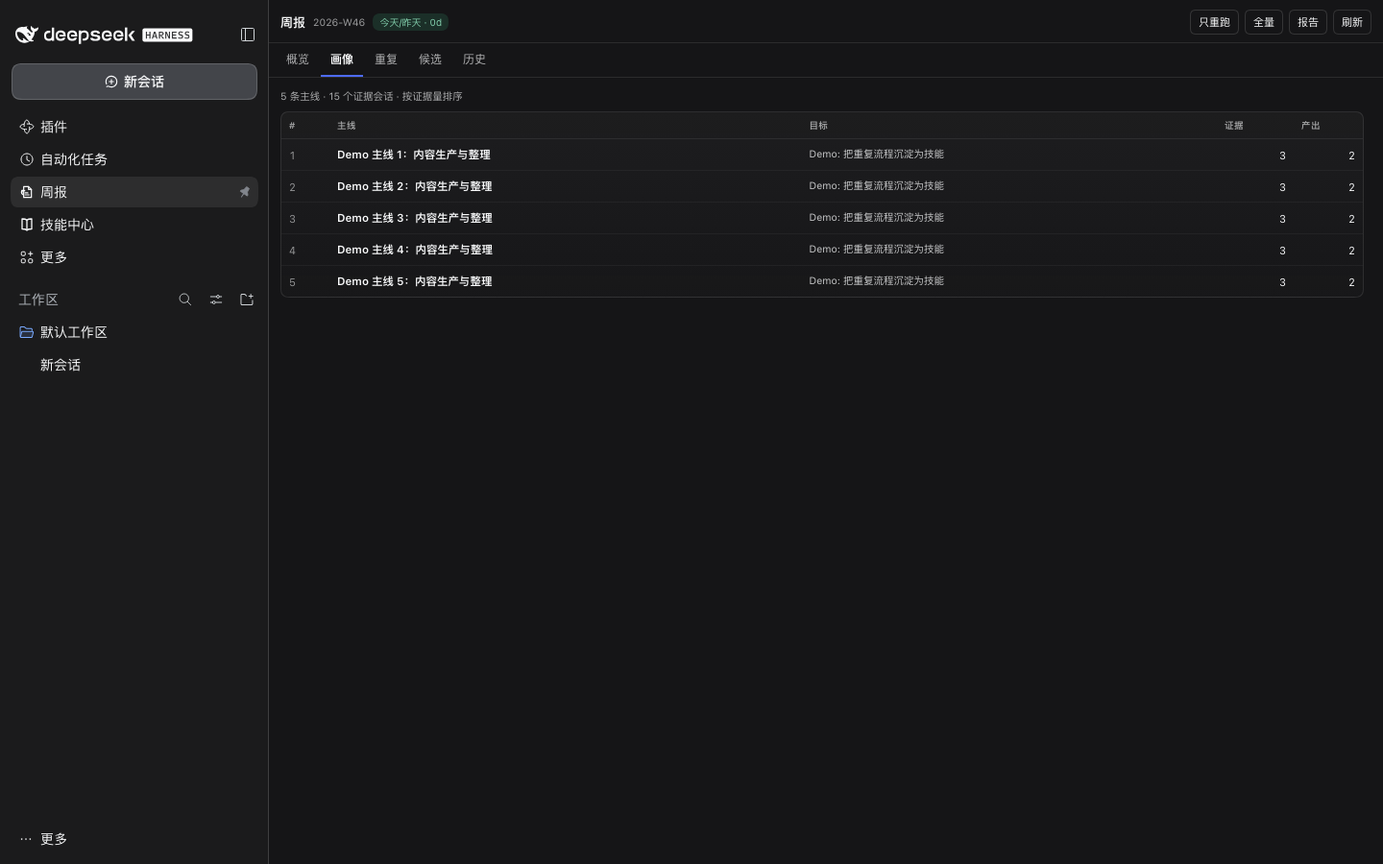
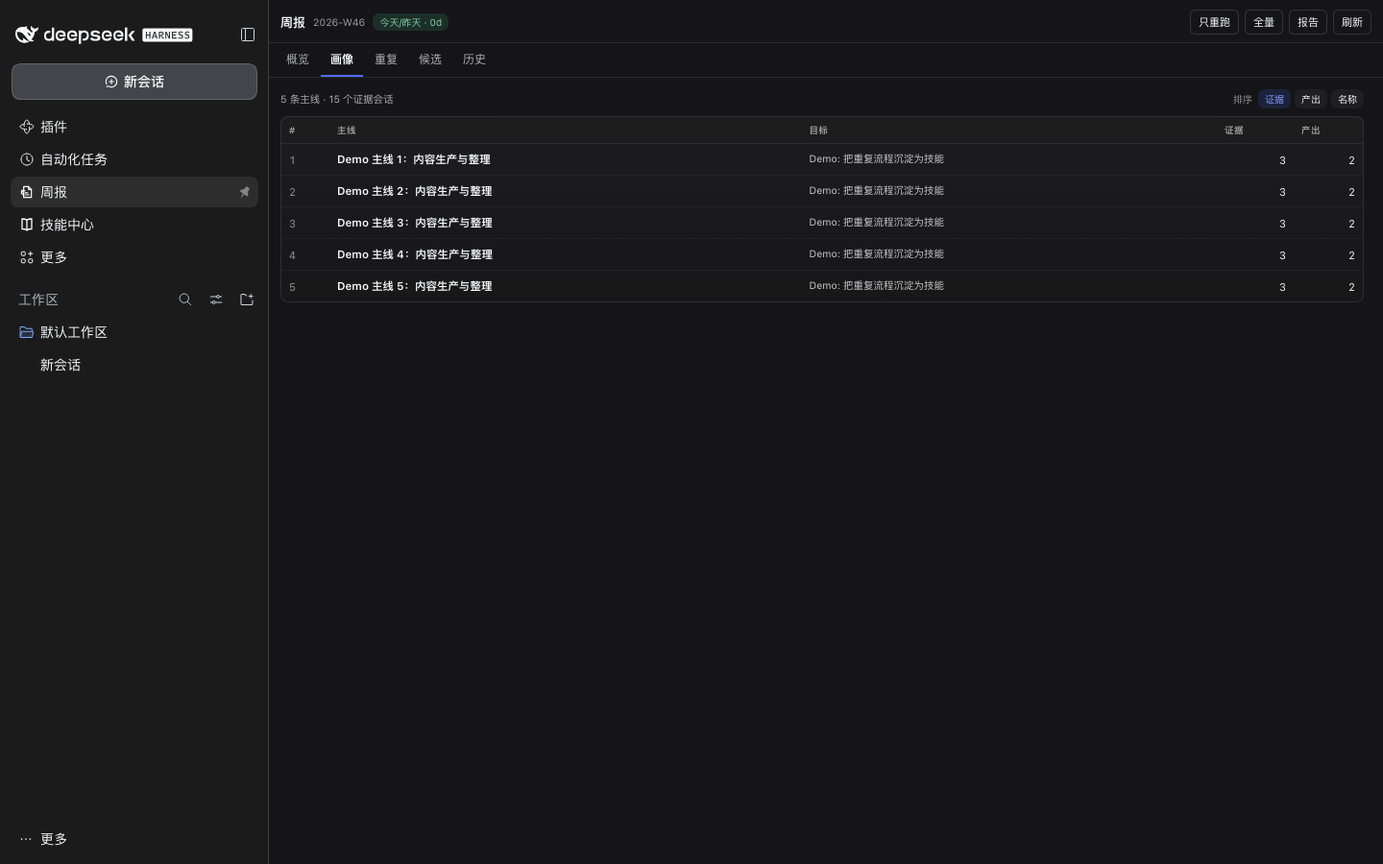
ui: B2 sorting, drilldown drawers, repeat fix brief, candidate actions, history delta; v0.4.5

diff --git a/lib/client.js b/lib/client.js
@@ -50,6 +50,21 @@ window.__ModuleLoader__.load({
       watcher: T('监听', 'Watcher'), skip: T('跳过', 'Skip'),
     }[v] || v);
 
+    const copyToClipboard = (text, onDone, onFail) => {
+      const fallback = () => {
+        try {
+          const ta = document.createElement('textarea');
+          ta.value = text; ta.setAttribute('readonly', ''); ta.style.position = 'fixed'; ta.style.opacity = '0';
+          document.body.appendChild(ta); ta.select();
+          const ok = document.execCommand && document.execCommand('copy');
+          document.body.removeChild(ta);
+          if (ok) onDone && onDone(); else onFail && onFail();
+        } catch { onFail && onFail(); }
+      };
+      if (navigator.clipboard?.writeText) navigator.clipboard.writeText(text).then(() => onDone && onDone()).catch(fallback);
+      else fallback();
+    };
+
     // ── P3 语义色 token（8 色，取自 dsh-context 色板）────────────────────
     // 60-30-10：60% 中性层（面板/卡片/边框 = rgba(127,127,127,*) 与透明渐变，跟随宿主深浅色）；
     // 30% 主蓝（标题/激活 Tab/主按钮/主序列）；10% 强调（紫/青/橙/粉/绿/红/黄只做序列色与状态点）。
@@ -169,6 +184,10 @@ window.__ModuleLoader__.load({
       barFill: (pct, color) => ({ height: '100%', width: `${Math.max(1, Math.min(100, pct))}%`, background: color || BLUE, borderRadius: 4 }),
       modalWrap: { position: 'fixed', inset: 0, background: 'rgba(0,0,0,.45)', display: 'flex', alignItems: 'center', justifyContent: 'center', zIndex: 9999 },
       modal: { width: 340, maxWidth: '90vw', background: 'Canvas', color: 'CanvasText', border: '1px solid rgba(127,127,127,.35)', borderRadius: 12, padding: 16, display: 'flex', flexDirection: 'column', gap: 10 },
+      drawerWrap: { position: 'fixed', inset: 0, zIndex: 9998, background: 'rgba(0,0,0,.38)', display: 'flex', justifyContent: 'flex-end' },
+      drawer: { width: 430, maxWidth: '94vw', height: '100%', background: 'Canvas', color: 'CanvasText', borderLeft: '1px solid rgba(127,127,127,.3)', boxShadow: '-18px 0 48px rgba(0,0,0,.24)', display: 'flex', flexDirection: 'column' },
+      drawerHead: { display: 'flex', alignItems: 'flex-start', gap: 8, padding: '12px 14px', borderBottom: '1px solid rgba(127,127,127,.2)' },
+      drawerBody: { padding: 14, overflowY: 'auto', display: 'flex', flexDirection: 'column', gap: 10, flex: 1, minHeight: 0 },
     };
 
     // ── 数据 hook ─────────────────────────────────────────────
@@ -478,6 +497,33 @@ window.__ModuleLoader__.load({
             h('button', { style: S.btn(danger ? 'danger' : 'primary'), onClick: onOk, disabled: busy, title: HELP.confirm() }, busy ? T('处理中…', 'Working…') : (okText || T('确认', 'Confirm'))))));
     }
 
+    function Drawer({ open, title, subtitle, onClose, children }) {
+      React.useEffect(() => {
+        if (!open) return undefined;
+        const onKey = (e) => { if (e.key === 'Escape') onClose(); };
+        window.addEventListener('keydown', onKey);
+        return () => window.removeEventListener('keydown', onKey);
+      }, [open, onClose]);
+      if (!open) return null;
+      return h('div', { style: S.drawerWrap, onClick: onClose },
+        h('div', { role: 'dialog', 'aria-modal': 'true', 'aria-label': title, style: S.drawer, onClick: (e) => e.stopPropagation() },
+          h('div', { style: S.drawerHead },
+            h('div', { style: { flex: 1, minWidth: 0 } },
+              h('div', { style: { fontWeight: 700, fontSize: 13, lineHeight: 1.4 } }, title),
+              subtitle ? h('div', { style: { fontSize: 10.5, opacity: 0.65, marginTop: 2 } }, subtitle) : null),
+            h('button', { style: { ...S.iconBtn, marginLeft: 0 }, onClick: onClose, 'aria-label': T('关闭', 'Close') }, '×')),
+          h('div', { style: S.drawerBody }, children)));
+    }
+
+    function SortControl({ value, onChange, options, label }) {
+      return h('div', { style: { display: 'flex', alignItems: 'center', gap: 4, flexWrap: 'wrap' } },
+        h('span', { style: { fontSize: 10, opacity: 0.55, marginRight: 2 } }, label || T('排序', 'Sort')),
+        ...options.map(([id, text]) => h('button', {
+          key: id, onClick: () => onChange(id), 'aria-pressed': value === id,
+          style: { ...S.pill(value === id ? tint(BLUE, 0.16) : 'rgba(127,127,127,.1)', value === id ? ink(BLUE) : 'inherit'), border: 0, cursor: 'pointer', padding: '3px 7px' },
+        }, text)));
+    }
+
     // ── 各 Tab ────────────────────────────────────────────────
     function OverviewTab({ overview, metrics, onRun, runState, onOpenReport }) {
       if (!overview) return h('div', { style: { opacity: 0.6 } }, T('加载中…', 'Loading…'));
@@ -540,11 +586,21 @@ window.__ModuleLoader__.load({
 
     function PortraitTab({ findings }) {
       if (!findings) return h('div', { style: { opacity: 0.6 } }, T('加载中…', 'Loading…'));
-      const items = findings.portrait || [];
-      const totalEvidence = items.reduce((a, p) => a + (p.sessions || []).length, 0);
+      const [sort, setSort] = React.useState('evidence');
+      const [selected, setSelected] = React.useState(null);
+      const raw = findings.portrait || [];
+      const items = raw.slice().sort((a, b) => {
+        if (sort === 'outputs') return (b.outputs || []).length - (a.outputs || []).length;
+        if (sort === 'title') return String(a.mainline || '').localeCompare(String(b.mainline || ''), LANG === 'en' ? 'en' : 'zh');
+        return (b.sessions || []).length - (a.sessions || []).length;
+      });
+      const totalEvidence = raw.reduce((a, p) => a + (p.sessions || []).length, 0);
+      const sessionLabel = (s) => (typeof s === 'string' ? s : (s.title || s.id || '—'));
       return h('div', { style: { display: 'flex', flexDirection: 'column', gap: 8 } },
-        h('div', { style: { fontSize: 10.5, opacity: 0.68 } },
-          T(`${items.length} 条主线 · ${totalEvidence} 个证据会话 · 按证据量排序`, `${items.length} mainlines · ${totalEvidence} evidence sessions · sorted by evidence`)),
+        h('div', { style: { display: 'flex', alignItems: 'center', gap: 10, flexWrap: 'wrap' } },
+          h('span', { style: { fontSize: 10.5, opacity: 0.68 } }, T(`${raw.length} 条主线 · ${totalEvidence} 个证据会话`, `${raw.length} mainlines · ${totalEvidence} evidence sessions`)),
+          h('span', { style: { marginLeft: 'auto' } },
+            h(SortControl, { value: sort, onChange: setSort, options: [['evidence', T('证据', 'Evidence')], ['outputs', T('产出', 'Outputs')], ['title', T('名称', 'Name')]] }))),
         items.length === 0
           ? h('div', { className: 'wr-card', style: { ...S.card, fontSize: 11, opacity: 0.65 } }, T('本周没有稳定主线', 'No stable mainlines this week'))
           : h('div', { className: 'wr-card wr-scroll-x', style: { ...S.card, padding: 0 } },
@@ -555,41 +611,104 @@ window.__ModuleLoader__.load({
                 h('th', null, T('目标', 'Goal')),
                 h('th', { style: { width: 64 } }, T('证据', 'Evidence')),
                 h('th', { style: { width: 56 } }, T('产出', 'Outputs')))),
-              h('tbody', null, ...items.map((p, i) => h('tr', { key: i },
+              h('tbody', null, ...items.map((p, i) => h('tr', {
+                key: p.mainline || i, tabIndex: 0, role: 'button', 'aria-label': T('查看主线详情：' + (p.mainline || ''), 'View mainline: ' + (p.mainline || '')),
+                style: { cursor: 'pointer' }, onClick: () => setSelected(p),
+                onKeyDown: (e) => { if (e.key === 'Enter' || e.key === ' ') { e.preventDefault(); setSelected(p); } },
+              },
                 h('td', { style: { opacity: 0.55, fontVariantNumeric: 'tabular-nums' } }, String(i + 1)),
                 h('td', { style: { maxWidth: 360 } },
                   h('div', { title: p.mainline, style: { fontWeight: 600, fontSize: 11.5, overflow: 'hidden', textOverflow: 'ellipsis', whiteSpace: 'nowrap' } }, p.mainline || '—')),
                 h('td', { style: { maxWidth: 420, opacity: 0.78 } },
                   h('div', { title: p.goal || '', style: { fontSize: 10.5, lineHeight: 1.45, display: '-webkit-box', WebkitLineClamp: 2, WebkitBoxOrient: 'vertical', overflow: 'hidden' } }, p.goal || '—')),
                 h('td', { className: 'num' }, String((p.sessions || []).length)),
-                h('td', { className: 'num' }, String((p.outputs || []).length))))))));
+                h('td', { className: 'num' }, String((p.outputs || []).length))))))),
+        h(Drawer, {
+          open: !!selected,
+          title: selected?.mainline || '',
+          subtitle: selected ? T(`证据 ${selected.sessions?.length || 0} · 产出 ${selected.outputs?.length || 0}`, `${selected.sessions?.length || 0} evidence · ${selected.outputs?.length || 0} outputs`) : '',
+          onClose: () => setSelected(null),
+        }, selected ? h(React.Fragment, null,
+          selected.goal ? h('div', { style: { fontSize: 11, lineHeight: 1.6, opacity: 0.82 } }, selected.goal) : null,
+          selected.note ? h('div', { style: { fontSize: 10.5, opacity: 0.6, lineHeight: 1.5 } }, selected.note) : null,
+          h('div', { style: S.section }, T('证据会话', 'Evidence sessions')),
+          (selected.sessions || []).length === 0
+            ? h('div', { style: { fontSize: 10.5, opacity: 0.6 } }, T('无证据会话', 'No evidence sessions'))
+            : (selected.sessions || []).map((s, i) => h('div', { key: i, style: { fontSize: 10.5, padding: '4px 0', borderBottom: '1px solid rgba(127,127,127,.12)' } }, sessionLabel(s))),
+          h('div', { style: S.section }, T('产出', 'Outputs')),
+          (selected.outputs || []).length === 0
+            ? h('div', { style: { fontSize: 10.5, opacity: 0.6 } }, T('无产出记录', 'No outputs'))
+            : (selected.outputs || []).map((o, i) => h('div', { key: i, style: { fontSize: 10.5, opacity: 0.82 } }, String(o)))) : null));
     }
 
-    function RepeatsTab({ findings }) {
+    function RepeatsTab({ findings, onToast }) {
       if (!findings) return h('div', { style: { opacity: 0.6 } }, T('加载中…', 'Loading…'));
-      const reps = (findings.repeats || []).slice().sort((a, b) => (b.count || 0) - (a.count || 0));
+      const [sort, setSort] = React.useState('count');
+      const [selected, setSelected] = React.useState(null);
+      const costMin = (r) => Number((String(r.cost || '').match(/\d+/) || [0])[0]);
+      const reps = (findings.repeats || []).slice().sort((a, b) => {
+        if (sort === 'evidence') return (b.evidence || []).length - (a.evidence || []).length;
+        if (sort === 'cost') return costMin(b) - costMin(a);
+        return (b.count || 0) - (a.count || 0);
+      });
+      const evLabel = (e) => (typeof e === 'string' ? e : (e.title || e.id || e.key || '—'));
+      const copyFix = (r) => {
+        const brief = [
+          '# 固化候选', '', `- 重复动作：${r.pattern || r.key || ''}`, `- 出现次数：${r.count || 0}`,
+          `- 成本：${r.cost || '未记录'}`, '- 期望形态：skill / rule / plugin（待选择）',
+          `- 证据会话：${(r.evidence || []).map(evLabel).join(', ') || '无'}`,
+          '', '请据此生成一个可复用的 skill/rule/plugin 候选，并说明触发条件、输入输出和验收方式。',
+        ].join('\n');
+        copyToClipboard(brief,
+          () => onToast?.(T('固化指令已复制，可粘贴到对话里生成候选', 'Brief copied; paste it into a chat to create a candidate')),
+          () => onToast?.(T('复制失败，请手动复制', 'Copy failed; copy manually')));
+      };
+      const rows = reps.map((r, i) => h('tr', {
+        key: r.key || i, tabIndex: 0, role: 'button', 'aria-label': T('查看重复详情：' + (r.pattern || r.key || ''), 'View repeat: ' + (r.pattern || r.key || '')),
+        style: { cursor: 'pointer' }, onClick: () => setSelected(r),
+        onKeyDown: (e) => { if (e.key === 'Enter' || e.key === ' ') { e.preventDefault(); setSelected(r); } },
+      },
+        h('td', { style: { opacity: 0.55, fontVariantNumeric: 'tabular-nums' } }, String(i + 1)),
+        h('td', { title: r.pattern || r.key, style: { fontWeight: 600, fontSize: 11.5 } }, r.pattern || r.key || '—'),
+        h('td', { className: 'num' }, String(r.count || 0)),
+        h('td', { style: { fontSize: 10.5, opacity: 0.72 } }, r.cost || '—'),
+        h('td', { className: 'num' }, String((r.evidence || []).length)),
+        h('td', { style: { opacity: 0.5 } }, '›')));
+      const table = h('div', { className: 'wr-card wr-scroll-x', style: { ...S.card, padding: 0 } },
+        h('table', { className: 'wr-table' },
+          h('thead', null, h('tr', null,
+            h('th', { style: { width: 34 } }, '#'),
+            h('th', null, T('重复动作', 'Repeat')),
+            h('th', { style: { width: 56 } }, T('次数', 'Count')),
+            h('th', { style: { width: 150 } }, T('成本', 'Cost')),
+            h('th', { style: { width: 64 } }, T('证据', 'Evidence')),
+            h('th', { style: { width: 40 } }, ''))),
+          h('tbody', null, ...rows)));
       return h('div', { style: { display: 'flex', flexDirection: 'column', gap: 8 } },
-        h('div', { style: { fontSize: 10.5, opacity: 0.68 } },
-          T(`${reps.length} 项重复 · 按出现次数排序`, `${reps.length} repeats · sorted by count`)),
+        h('div', { style: { display: 'flex', alignItems: 'center', gap: 10, flexWrap: 'wrap' } },
+          h('span', { style: { fontSize: 10.5, opacity: 0.68 } }, T(`${reps.length} 项重复`, `${reps.length} repeats`)),
+          h('span', { style: { marginLeft: 'auto' } },
+            h(SortControl, { value: sort, onChange: setSort, options: [['count', T('次数', 'Count')], ['cost', T('成本', 'Cost')], ['evidence', T('证据', 'Evidence')]] }))),
         reps.length === 0
           ? h('div', { className: 'wr-card', style: { ...S.card, fontSize: 11, opacity: 0.65 } }, T('本周没有稳定重复', 'No stable repeats this week'))
-          : h('div', { className: 'wr-card wr-scroll-x', style: { ...S.card, padding: 0 } },
-            h('table', { className: 'wr-table' },
-              h('thead', null, h('tr', null,
-                h('th', { style: { width: 34 } }, '#'),
-                h('th', null, T('重复动作', 'Repeat')),
-                h('th', { style: { width: 56 } }, T('次数', 'Count')),
-                h('th', { style: { width: 150 } }, T('成本', 'Cost')),
-                h('th', { style: { width: 64 } }, T('证据', 'Evidence')))),
-              h('tbody', null, ...reps.map((r, i) => h('tr', { key: r.key || i },
-                h('td', { style: { opacity: 0.55, fontVariantNumeric: 'tabular-nums' } }, String(i + 1)),
-                h('td', { title: r.pattern || r.key, style: { fontWeight: 600, fontSize: 11.5 } }, r.pattern || r.key || '—'),
-                h('td', { className: 'num' }, String(r.count || 0)),
-                h('td', { style: { fontSize: 10.5, opacity: 0.72 } }, r.cost || '—'),
-                h('td', { className: 'num' }, String((r.evidence || []).length))))))));
+          : table,
+        h(Drawer, {
+          open: !!selected,
+          title: selected?.pattern || selected?.key || '',
+          subtitle: selected ? T(`出现 ${selected.count || 0} 次 · 证据 ${selected.evidence?.length || 0}`, `${selected.count || 0} times · ${selected.evidence?.length || 0} evidence`) : '',
+          onClose: () => setSelected(null),
+        }, selected ? h(React.Fragment, null,
+          h('div', { style: { display: 'flex', gap: 6, flexWrap: 'wrap' } },
+            h('span', { style: S.pill('rgba(127,127,127,.12)', 'inherit') }, selected.status || T('待固化', 'To fix')),
+            selected.cost ? h('span', { style: S.pill('rgba(127,127,127,.12)', 'inherit') }, selected.cost) : null),
+          h('div', { style: S.section }, T('证据会话', 'Evidence sessions')),
+          (selected.evidence || []).length === 0
+            ? h('div', { style: { fontSize: 10.5, opacity: 0.6 } }, T('无证据会话', 'No evidence sessions'))
+            : (selected.evidence || []).map((e, i) => h('div', { key: i, style: { ...S.mono, padding: '3px 0' } }, evLabel(e))),
+          h('button', { style: { ...S.btn('primary'), alignSelf: 'flex-start' }, onClick: () => copyFix(selected) }, T('复制固化指令', 'Copy fix brief'))) : null));
     }
 
-    function CandidateCard({ c, expanded, onToggle, onLand }) {
+    function CandidateCard({ c, expanded, onToggle, onLand, onToast }) {
       const badgeColor = { skill: TOKENS.blue, 'skill-lite': TOKENS.purple, rule: TOKENS.green, plugin: TOKENS.purple, schedule: TOKENS.cyan, watcher: TOKENS.orange, skip: '#888' }[c.verdict] || '#888';
       const dims = [[T('频次', 'Frequency'), c.scores?.freq], [T('触发', 'Trigger'), c.scores?.trigger], [T('能力', 'Capability'), c.scores?.capability], [T('可验证', 'Verifiable'), c.scores?.verifiable]];
       return h('div', { className: 'wr-card', style: S.card },
@@ -597,6 +716,12 @@ window.__ModuleLoader__.load({
           h('span', { style: S.pill(tint(badgeColor, 0.16), ink(badgeColor)) }, verdictLabel(c.verdict)),
           h('span', { style: { fontWeight: 600, fontSize: 11.5, flex: 1, overflow: 'hidden', textOverflow: 'ellipsis', whiteSpace: 'nowrap' } }, c.title),
           h('span', { style: { fontSize: 10.5, opacity: 0.7, fontVariantNumeric: 'tabular-nums' } }, `${c.total}/${c.max}`),
+          c.landed ? h('span', { style: S.pill(tint(TOKENS.green, 0.16), ink(TOKENS.green)) }, T('已落地', 'Landed'))
+            : c.skipped ? h('span', { style: S.pill('rgba(127,127,127,.12)', 'inherit') }, T('已跳过', 'Skipped'))
+              : h('button', {
+                style: { ...S.btn('primary'), padding: '2px 7px', fontSize: 10 },
+                title: HELP.adopt(), onClick: (e) => { e.stopPropagation(); onLand(c); },
+              }, T('采纳', 'Adopt')),
           h('span', { style: { opacity: 0.68, transform: expanded ? 'rotate(90deg)' : 'none' } }, '›')),
         expanded ? h(React.Fragment, null,
           c.what ? h('div', { style: { fontSize: 10.5, opacity: 0.8, lineHeight: 1.55 } }, c.what) : null,
@@ -608,15 +733,19 @@ window.__ModuleLoader__.load({
           c.evidenceSessions?.length ? h('div', { style: S.mono }, `证据 ${c.evidenceSessions.length} 个会话`) : null,
           h('div', { style: S.row },
             c.landed ? h('span', { style: { fontSize: 10.5, color: ink(TOKENS.green) } }, T('已落地 · ', 'Landed · ') + (c.landed.where || ''))
-              : c.skipped ? h('span', { style: { fontSize: 10.5, opacity: 0.68 } }, T('已跳过', 'Skipped'))
-                : h('button', { style: S.btn('primary'), onClick: () => onLand(c), title: HELP.adopt() }, T('采纳并同步', 'Adopt & sync')),
-            h('button', { style: S.btn(), onClick: () => navigator.clipboard?.writeText(c.key), title: HELP.copyKey() }, T('复制 key', 'Copy key')))) : null);
+              : c.skipped ? h('span', { style: { fontSize: 10.5, opacity: 0.68 } }, T('已跳过', 'Skipped')) : null,
+            h('button', { style: S.btn(), onClick: () => {
+              copyToClipboard(c.key,
+                () => onToast?.(T('候选 key 已复制', 'Candidate key copied')),
+                () => onToast?.(T('复制失败，请手动复制', 'Copy failed; copy manually')));
+            }, title: HELP.copyKey() }, T('复制 key', 'Copy key')))) : null);
     }
 
     function CandidatesTab({ data, onReload, onToast }) {
       const [filter, setFilter] = React.useState('all');
       const [q, setQ] = React.useState('');
       const [expanded, setExpanded] = React.useState({});
+      const [sort, setSort] = React.useState('score');
       const [confirm, setConfirm] = React.useState(null);
       const [busy, setBusy] = React.useState(false);
       if (!data) return h('div', { style: { opacity: 0.6 } }, T('加载中…', 'Loading…'));
@@ -625,7 +754,10 @@ window.__ModuleLoader__.load({
       const labelOf = (v) => verdictLabel(v);
       const countOf = (v) => (v === 'all' ? list.length : list.filter((c) => c.verdict === v).length);
       const shown = list.filter((c) => (filter === 'all' || c.verdict === filter)
-        && (!q || (c.key + ' ' + c.title + ' ' + (c.what || '')).toLowerCase().includes(q.toLowerCase())));
+        && (!q || (c.key + ' ' + c.title + ' ' + (c.what || '')).toLowerCase().includes(q.toLowerCase())))
+        .slice().sort((a, b) => (sort === 'title'
+          ? String(a.title || '').localeCompare(String(b.title || ''), LANG === 'en' ? 'en' : 'zh')
+          : (b.total || 0) - (a.total || 0)));
       const doLand = async () => {
         setBusy(true);
         try {
@@ -647,12 +779,16 @@ window.__ModuleLoader__.load({
             value: q, onChange: (e) => setQ(e.target.value), placeholder: T('搜索候选…', 'Search candidates…'),
             'aria-label': T('搜索候选', 'Search candidates'),
             style: { flex: '1 1 220px', minWidth: 160, boxSizing: 'border-box', padding: '6px 8px', borderRadius: 7, border: '1px solid rgba(127,127,127,.3)', background: 'transparent', color: 'inherit', fontSize: 11 },
-          })),
+          }),
+          h('select', {
+            value: sort, onChange: (e) => setSort(e.target.value), 'aria-label': T('候选排序', 'Candidate sort'),
+            style: { padding: '5px 7px', borderRadius: 7, border: '1px solid rgba(127,127,127,.3)', background: 'transparent', color: 'inherit', fontSize: 10.5 },
+          }, h('option', { value: 'score' }, T('按评分', 'By score')), h('option', { value: 'title' }, T('按名称', 'By name')))),
         shown.length === 0 ? h('div', { style: { fontSize: 11, opacity: 0.68, padding: 8 } }, T('没有匹配的候选', 'No matching candidates')) : null,
         ...shown.map((c) => h(CandidateCard, {
           key: c.key, c, expanded: !!expanded[c.key],
           onToggle: () => setExpanded((s) => ({ ...s, [c.key]: !s[c.key] })),
-          onLand: (x) => setConfirm(x),
+          onLand: (x) => setConfirm(x), onToast,
         })),
         h(Modal, { open: !!confirm, title: T('采纳候选', 'Adopt candidate'), danger: false, busy, okText: T('采纳并同步', 'Adopt & sync'), onCancel: () => setConfirm(null), onOk: doLand },
           confirm ? h('div', null, h('div', { style: { fontWeight: 600, marginBottom: 4 } }, confirm.title), h('div', { style: S.mono }, confirm.key), h('div', { style: { marginTop: 6 } }, T('将写入 decisions.json，并执行本机 land-sync.sh——可能 git push 到你自己的私有配置仓库（可回滚）。', 'Writes decisions.json and runs local land-sync.sh — may git-push to your own private config repo (rollback-able).'))) : null));
@@ -663,6 +799,8 @@ window.__ModuleLoader__.load({
       const w = data.weeks || [];
       const decisions = (data.decisions || []).slice(-8).reverse();
       const series = [{ label: T('会话', 'Sessions'), values: w.map((x) => x.sessions) }];
+      const prevByWeek = new Map(w.map((x, i) => [x.week, i > 0 ? w[i - 1] : null]));
+      const deltaOf = (x) => { const p = prevByWeek.get(x.week); return p ? (Number(x.sessions) || 0) - (Number(p.sessions) || 0) : null; };
       return h('div', { style: { display: 'flex', flexDirection: 'column', gap: 8 } },
         h('div', { className: 'wr-card', style: S.card },
           h(ChartHead, { color: TOKENS.blue }, T('每周会话量', 'Sessions per week')),
@@ -674,11 +812,18 @@ window.__ModuleLoader__.load({
           h('table', { className: 'wr-table' },
             h('thead', null, h('tr', null,
               h('th', null, T('周', 'Week')), h('th', { className: 'num' }, T('会话', 'Sessions')),
+              h('th', { className: 'num' }, T('Δ 会话', 'Δ sessions')),
               h('th', { className: 'num' }, T('轮次', 'Turns')), h('th', { className: 'num' }, T('候选', 'Candidates')),
               h('th', { className: 'num' }, T('压缩', 'Compactions')), h('th', { style: { width: 64 } }, T('报告', 'Report')))),
             h('tbody', null, ...w.slice().reverse().map((x) => h('tr', { key: x.week },
               h('td', { style: { fontWeight: 600 } }, x.week),
               h('td', { className: 'num' }, String(x.sessions ?? 0)),
+              h('td', { className: 'num' }, (() => {
+                const d = deltaOf(x);
+                if (d == null) return h('span', { style: { opacity: 0.4 } }, '—');
+                const color = d > 0 ? ink(TOKENS.green) : d < 0 ? ink(TOKENS.red) : 'inherit';
+                return h('span', { style: { color, fontVariantNumeric: 'tabular-nums' } }, `${d > 0 ? '+' : ''}${d}`);
+              })()),
               h('td', { className: 'num' }, String(x.turns ?? 0)),
               h('td', { className: 'num' }, String(x.candidates ?? 0)),
               h('td', { className: 'num' }, String(x.compactions ?? 0)),
@@ -810,7 +955,7 @@ window.__ModuleLoader__.load({
       const body = (() => {
         if (tab === 'overview') return h(OverviewTab, { overview: overview.data, metrics: metrics.data, onRun: startRun, runState, onOpenReport: () => window.open(API + '/report', '_blank') });
         if (tab === 'portrait') return h(PortraitTab, { findings: findings.data });
-        if (tab === 'repeats') return h(RepeatsTab, { findings: findings.data });
+        if (tab === 'repeats') return h(RepeatsTab, { findings: findings.data, onToast: setToast });
         if (tab === 'candidates') return h(CandidatesTab, { data: candidates.data, onReload: candidates.reload, onToast: setToast });
         return h(HistoryTab, { data: history.data });
       })();

diff --git a/README.md b/README.md
@@ -1,4 +1,4 @@
-# dsh-weekly-retro · DSH 周报复盘插件 v0.4.4
+# dsh-weekly-retro · DSH 周报复盘插件 v0.4.5
 
 ![plugin icon](./assets/icon.png)
 
@@ -65,6 +65,7 @@ pnpm install   # 也可用 DSH 运行时自带的 pnpm
 - **色板**：参考 `dsh-context` 的 8 色语义 token（主蓝 `#4D6BFE`、紫 `#A855F7`、青 `#00B4AB`、橙 `#F39A2B`、粉 `#C45FA0`、绿 `#41B883`、红 `#E5594F`、黄 `#F0D043`），按 60-30-10 分配：60% 中性层、30% 主蓝、10% 强调色。
 - **图表**：Donut / Bars / Histogram / Line / Heatmap / Funnel + 新增采纳率 Gauge、候选评分 Radar、工具用量 Treemap、周信号量 StackedArea；概览 `role=img` 图表 10 个。
 - **层次**：单层 header（周次/新鲜度/运行/刷新）+ 6 列 KPI + 2 栏图表栅格；画像/重复/历史表格化；卡片 hover 抬升（`prefers-reduced-motion` 关闭）。
+- **交互（B2）**：画像/重复行点击打开 Drawer；重复可复制固化指令；候选支持排序 + 行内采纳；历史表带 Δ 环比。
 - **可访问性**：全部图表 `role="img"` + 摘要 `aria-label`；Tab `tablist/tab/tabpanel`；提示气泡 hover/focus 可用；插件内文本浅色主题最低对比度 ≥6.44（无 <4.5）。
 
 ## 安全边界

diff --git a/docs/RELEASE-CHECKLIST.md b/docs/RELEASE-CHECKLIST.md
@@ -1,4 +1,4 @@
-# Release checklist · dsh-weekly-retro v0.4.4
+# Release checklist · dsh-weekly-retro v0.4.5
 
 发布前逐项打勾；未完成项不要 publish。
 
@@ -52,12 +52,12 @@ DSH_NO_PATCH=1 DSH_VERIFY_PORT=62382 bash test/boot-verify.sh
 
 - [ ] `git init`，首次提交只包含项目文件（无 `node_modules`/截图源数据）
 - [ ] 推送 `<owner>/dsh-weekly-retro`，默认分支 `main`
-- [ ] tag `v0.4.4`；Release 附 tarball + 隐私说明链接
+- [ ] tag `v0.4.5`；Release 附 tarball + 隐私说明链接
 - [ ] 仓库开启 Security Advisories（SECURITY.md 指向）
 
 ## 5. Marketplace
 
-- [x] 名称：`dsh-weekly-retro`；版本 `0.4.4`；icon `assets/icon.png`
+- [x] 名称：`dsh-weekly-retro`；版本 `0.4.5`；icon `assets/icon.png`
 - [ ] 描述与 README 一致；标注前置依赖与“本机数据、无遥测”
 - [ ] **目录 PR**：`awesome-dsh-plugin` 要求仓库创建满 1 天；本仓库创建于 2026-11-12，最早 2026-11-13 提交 `data/plugins/Dreamaniax__dsh-weekly-retro.yml`（内容见 `docs/marketplace-entry.yml`）
 - [ ] 提交审核后，在干净 profile 安装验证：

diff --git a/docs/UI-REVIEW.md b/docs/UI-REVIEW.md
@@ -156,3 +156,13 @@
 | 候选筛选 | `all/skill/plugin` | 全部/技能/插件 + 计数；卡片 badge 同步中文化 |
 
 验证：1440×900 实测 `scrollHeight 1158`；5 Tab 无横向溢出；候选筛选 3→1/2；全量测试 7 组通过；截图已更新到 `docs/screenshots/`。B2（排序、下钻、CTA、空态）尚未实施。
+
+
+## 10. B2 实施记录（v0.4.5）
+
+- 画像：按证据/产出/名称排序；行点击/Enter 打开右侧 Drawer（目标、全部证据会话、产出）。
+- 重复：按次数/成本/证据排序；Drawer 展示证据与状态；「复制固化指令」生成候选 brief 并复制。
+- 候选：按评分/名称排序；行内「采纳」主操作，已落地/已跳过显示状态；复制 key 有 toast。
+- 历史：周表新增 `Δ 会话` 环比，涨绿跌红。
+- 验证：Drawer 开合/Esc、复制成功 toast、候选模态、排序、历史 Δ 均通过；5 Tab 无横向溢出；7 组测试通过。
+- 仍留 B3：骨架/空态、URL 状态、焦点管理、真实候选写入（当前「固化」为复制 brief）。

diff --git a/docs/PRIVACY-AUDIT.md b/docs/PRIVACY-AUDIT.md
@@ -1,4 +1,4 @@
-# Privacy audit · dsh-weekly-retro v0.4.4
+# Privacy audit · dsh-weekly-retro v0.4.5
 
 > 审计目标：发布到 GitHub / DSH 插件市场前，确认 (A) 不会泄露作者信息；(B) 下载者不会意外暴露自己的数据。
 
